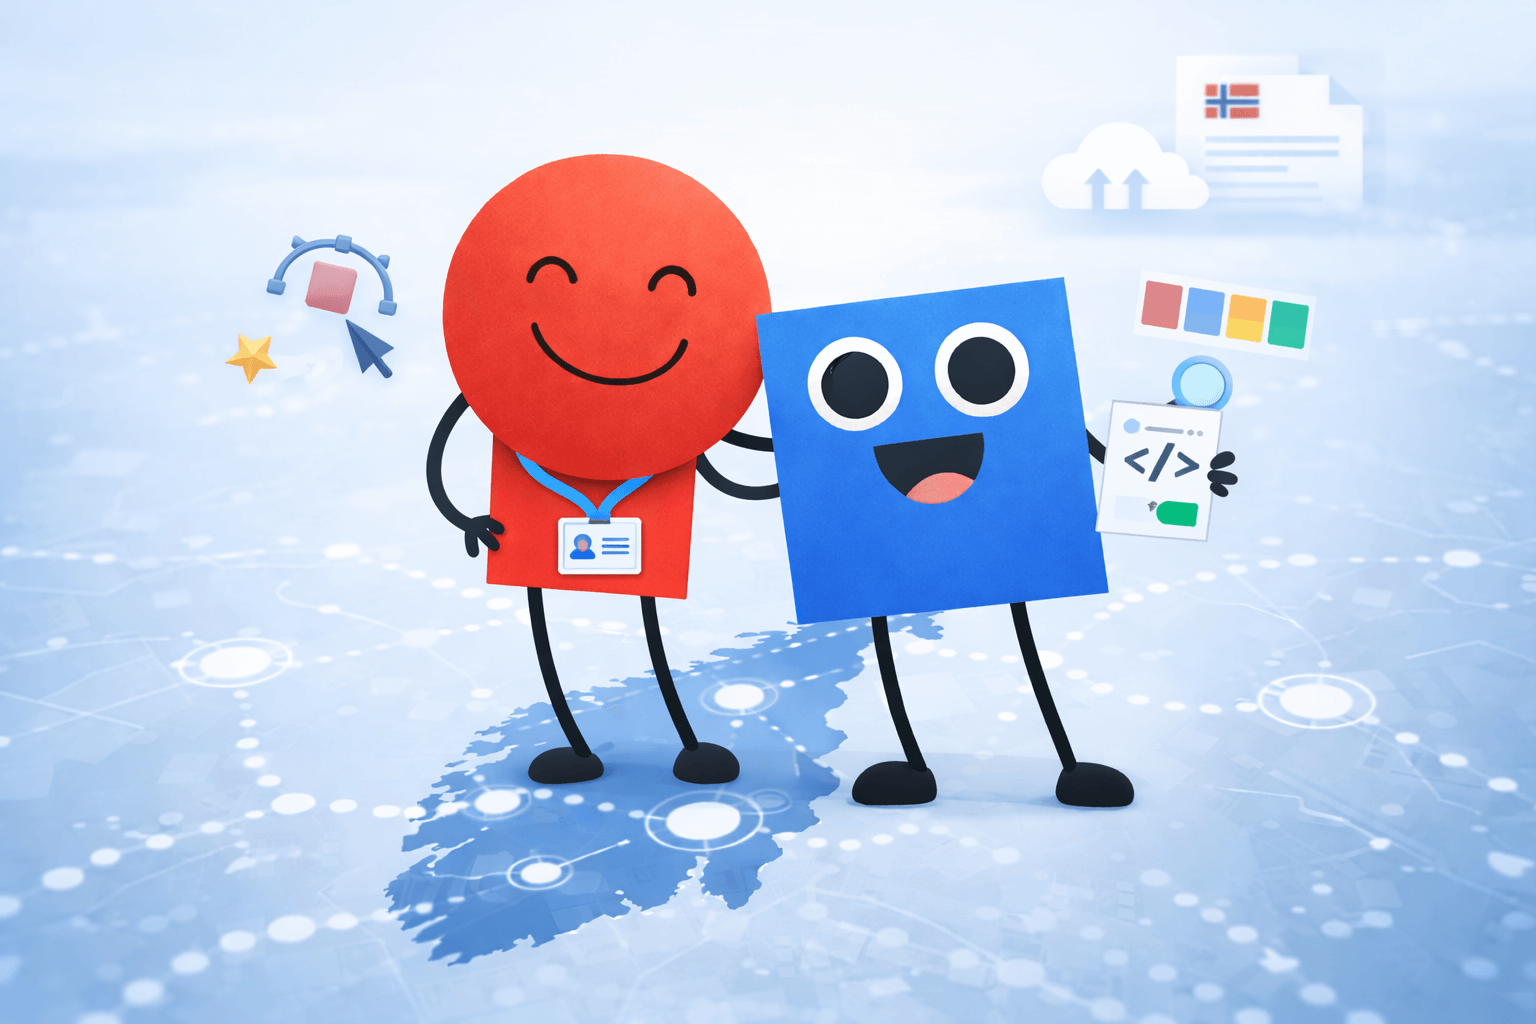
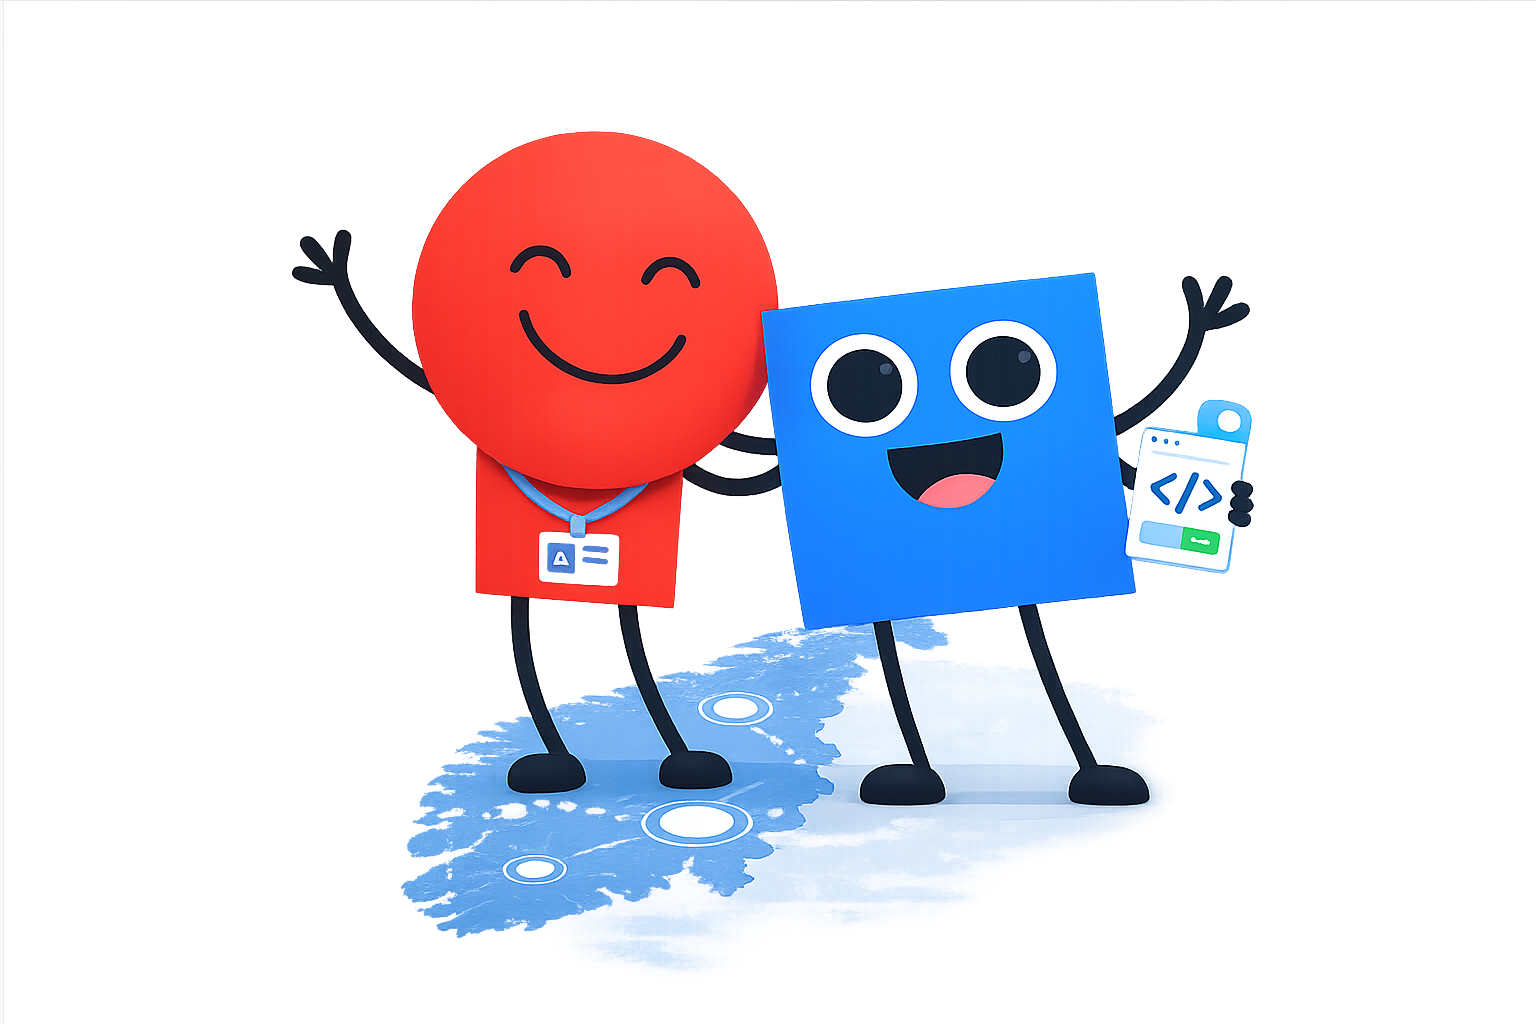
stuff

diff --git a/src/styles/home.css b/src/styles/home.css
@@ -121,12 +121,9 @@
   position: relative;
   z-index: 2;
   width: 100%;
-  max-width: 420px;
+  max-width: 520px;
   border-radius: var(--radius-lg);
   overflow: hidden;
-  box-shadow:
-    0 20px 60px rgba(0, 0, 0, 0.12),
-    0 0 0 1px rgba(0, 0, 0, 0.04);
   transform: rotate(2deg);
   transition: transform 0.4s cubic-bezier(0.22, 1, 0.36, 1);
 }
@@ -140,66 +137,6 @@
   aspect-ratio: 4 / 3;
   object-fit: cover;
   display: block;
-}
-
-.hero-image-overlay {
-  position: absolute;
-  inset: 0;
-  background: linear-gradient(
-    135deg,
-    rgba(220, 38, 38, 0.08) 0%,
-    transparent 60%
-  );
-  pointer-events: none;
-}
-
-/* Decorative blobs */
-.hero-blob {
-  position: absolute;
-  border-radius: 50%;
-  filter: blur(60px);
-  opacity: 0.5;
-  pointer-events: none;
-  animation: blobFloat 8s ease-in-out infinite alternate;
-}
-
-.hero-blob-1 {
-  width: 260px;
-  height: 260px;
-  background: radial-gradient(circle, #dc262630 0%, transparent 70%);
-  top: -40px;
-  right: -20px;
-}
-
-.hero-blob-2 {
-  width: 200px;
-  height: 200px;
-  background: radial-gradient(circle, #6366f130 0%, transparent 70%);
-  bottom: -30px;
-  left: -10px;
-  animation-delay: -4s;
-}
-
-@keyframes blobFloat {
-  0% {
-    transform: translate(0, 0) scale(1);
-  }
-  100% {
-    transform: translate(12px, -16px) scale(1.08);
-  }
-}
-
-/* Decorative dots grid */
-.hero-dots {
-  position: absolute;
-  z-index: 1;
-  bottom: 10px;
-  right: -10px;
-  width: 100px;
-  height: 100px;
-  background-image: radial-gradient(circle, #cbd5e1 1.2px, transparent 1.2px);
-  background-size: 14px 14px;
-  opacity: 0.5;
 }
 
 /* ── Posts Section ────────────────────────────────────────── */

diff --git a/src/components/WorkInProgress.tsx b/src/components/WorkInProgress.tsx
@@ -1,0 +1,31 @@
+import "../styles/work-in-progress.css";
+
+export default function WorkInProgress() {
+  return (
+    <div className="wip-banner" role="status">
+      <div className="wip-icon">
+        <svg
+          width="24"
+          height="24"
+          viewBox="0 0 24 24"
+          fill="none"
+          stroke="currentColor"
+          strokeWidth="2"
+          strokeLinecap="round"
+          strokeLinejoin="round"
+        >
+          <path d="M12 9v4" />
+          <path d="M12 17h.01" />
+          <path d="M15.312 2H8.688a1 1 0 0 0-.707.293L2.293 7.981a1 1 0 0 0-.293.707v6.624a1 1 0 0 0 .293.707l5.688 5.688a1 1 0 0 0 .707.293h6.624a1 1 0 0 0 .707-.293l5.688-5.688a1 1 0 0 0 .293-.707V8.688a1 1 0 0 0-.293-.707L16.02 2.293A1 1 0 0 0 15.312 2z" />
+        </svg>
+      </div>
+      <div className="wip-content">
+        <strong className="wip-title">Dette innlegget er under arbeid</strong>
+        <p className="wip-description">
+          Innhaldet på denne sida er ikkje ferdigstilt enno. Vi jobbar med å
+          fullføre det og kan gjere endringar undervegs.
+        </p>
+      </div>
+    </div>
+  );
+}

diff --git a/src/pages/Home.tsx b/src/pages/Home.tsx
@@ -14,7 +14,7 @@ export default function Home() {
             <span className="hero-highlight">digdir.no</span>
           </h1>
           <p>
-            Her deler vi tankane bak endringane me gjer på{" "}
+            Her deler vi tankane bak endringane vi gjer på{" "}
             <span className="hero-highlight">digdir.no</span>. Kvifor ting ser
             ut som dei gjer, kva vi har endra og kva som kjem. Følg med og sjå
             korleis nettstaden utviklar seg.
@@ -23,11 +23,7 @@ export default function Home() {
         <div className="hero-visual">
           <div className="hero-image-wrapper">
             <img src="/images/hero-image.png" alt="Designarbeidsområde" />
-            <div className="hero-image-overlay" />
           </div>
-          <div className="hero-blob hero-blob-1" />
-          <div className="hero-blob hero-blob-2" />
-          <div className="hero-dots" />
         </div>
       </section>
 

diff --git a/src/styles/work-in-progress.css b/src/styles/work-in-progress.css
@@ -1,0 +1,36 @@
+.wip-banner {
+  display: flex;
+  align-items: flex-start;
+  gap: var(--spacing-md);
+  margin: 0 0 var(--spacing-xl);
+  padding: var(--spacing-lg);
+  background: #fef9ec;
+  border: 1px solid #f5d880;
+  border-left: 4px solid #e5a50a;
+  border-radius: 0 var(--radius-md) var(--radius-md) 0;
+}
+
+.wip-icon {
+  flex-shrink: 0;
+  color: #b7791f;
+  margin-top: 2px;
+}
+
+.wip-content {
+  display: flex;
+  flex-direction: column;
+  gap: var(--spacing-xs);
+}
+
+.wip-title {
+  font-size: 0.9375rem;
+  font-weight: 600;
+  color: #92400e;
+}
+
+.wip-description {
+  font-size: 0.875rem;
+  line-height: 1.6;
+  color: #78350f;
+  margin: 0;
+}

diff --git a/src/styles/layout.css b/src/styles/layout.css
@@ -21,6 +21,7 @@
   color: var(--color-text);
   font-weight: 700;
   font-size: 1.125rem;
+  margin-left: -4px;
 }
 
 .logo:hover {
@@ -71,15 +72,33 @@
 
 @media (max-width: 640px) {
   .header {
-    flex-direction: column;
-    gap: var(--spacing-md);
+    padding: var(--spacing-md);
+  }
+
+  .logo img {
+    width: 28px;
+    height: 28px;
+  }
+
+  .logo {
+    font-size: 1rem;
   }
 
   .nav {
-    gap: var(--spacing-md);
+    gap: var(--spacing-sm);
+  }
+
+  .nav-link {
+    font-size: 0.875rem;
   }
 
   .main {
     padding: var(--spacing-md);
+  }
+}
+
+@media (max-width: 400px) {
+  .logo-text {
+    display: none;
   }
 }
